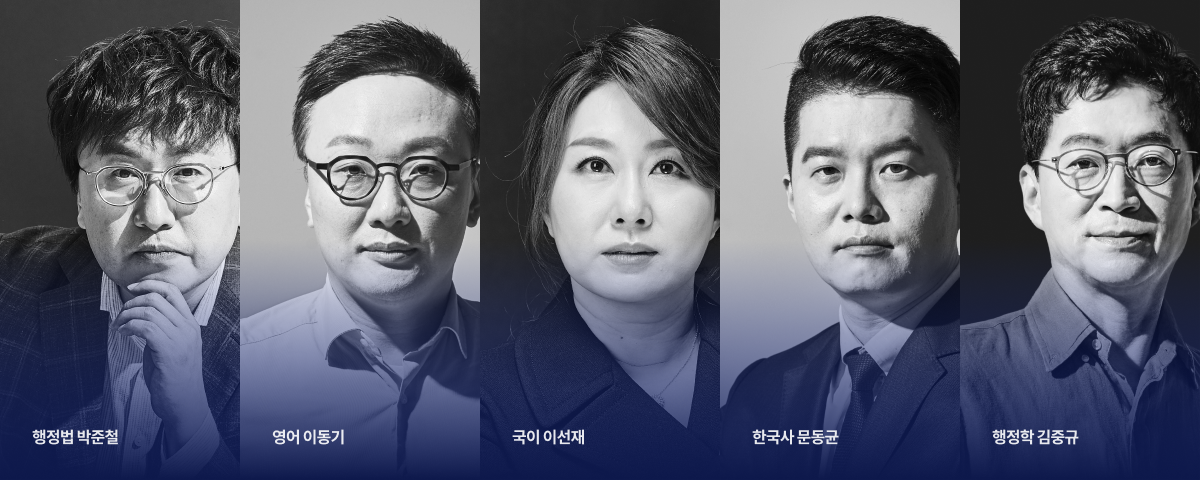
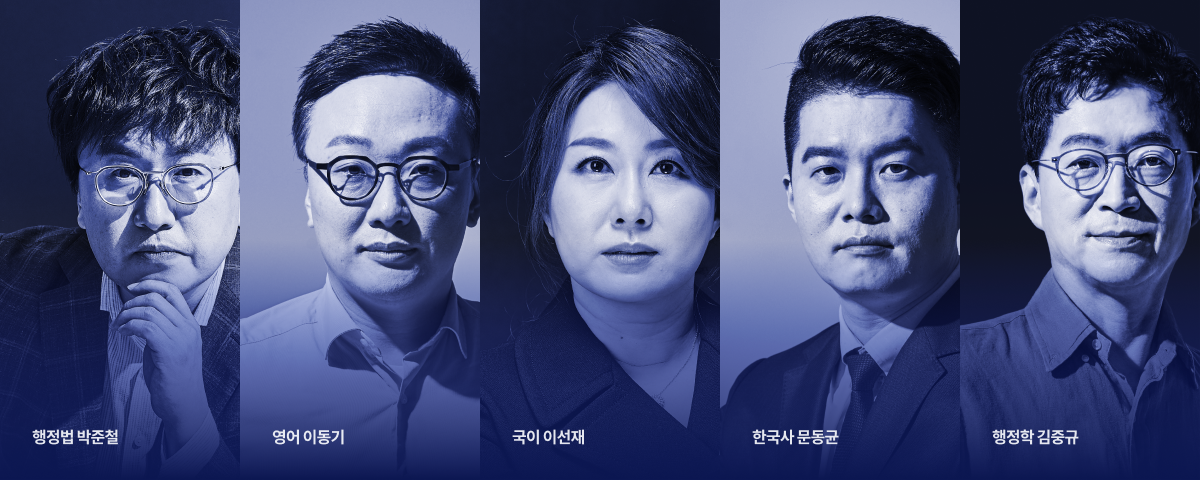
[CONPR-32]커넥츠 프랩

diff --git a/web/CONPR-32/index.css b/web/CONPR-32/index.css
@@ -35,5 +35,5 @@ body > div[class*="evt_"] *{line-height: 1.3em;}
 /* sect03 */
 .sect03{padding: 0 0 80px;}
 
-.sect03 .cont_prof{height: 640px;background: #0B164A;-webkit-mask-image: linear-gradient(180deg, #3D4C96 28.37%, #707489 66.51%);mask-image: linear-gradient(180deg, #3D4C96 28.37%, #707489 66.51%);}
+.sect03 .cont_prof{height: 640px;background: #0B164A;}
 .sect03 .cont_prof h3{color: #FFFFFF;font-size: 28px;display: flex;margin: 40px 0;justify-content: center;flex-wrap: nowrap;align-content: center;}
